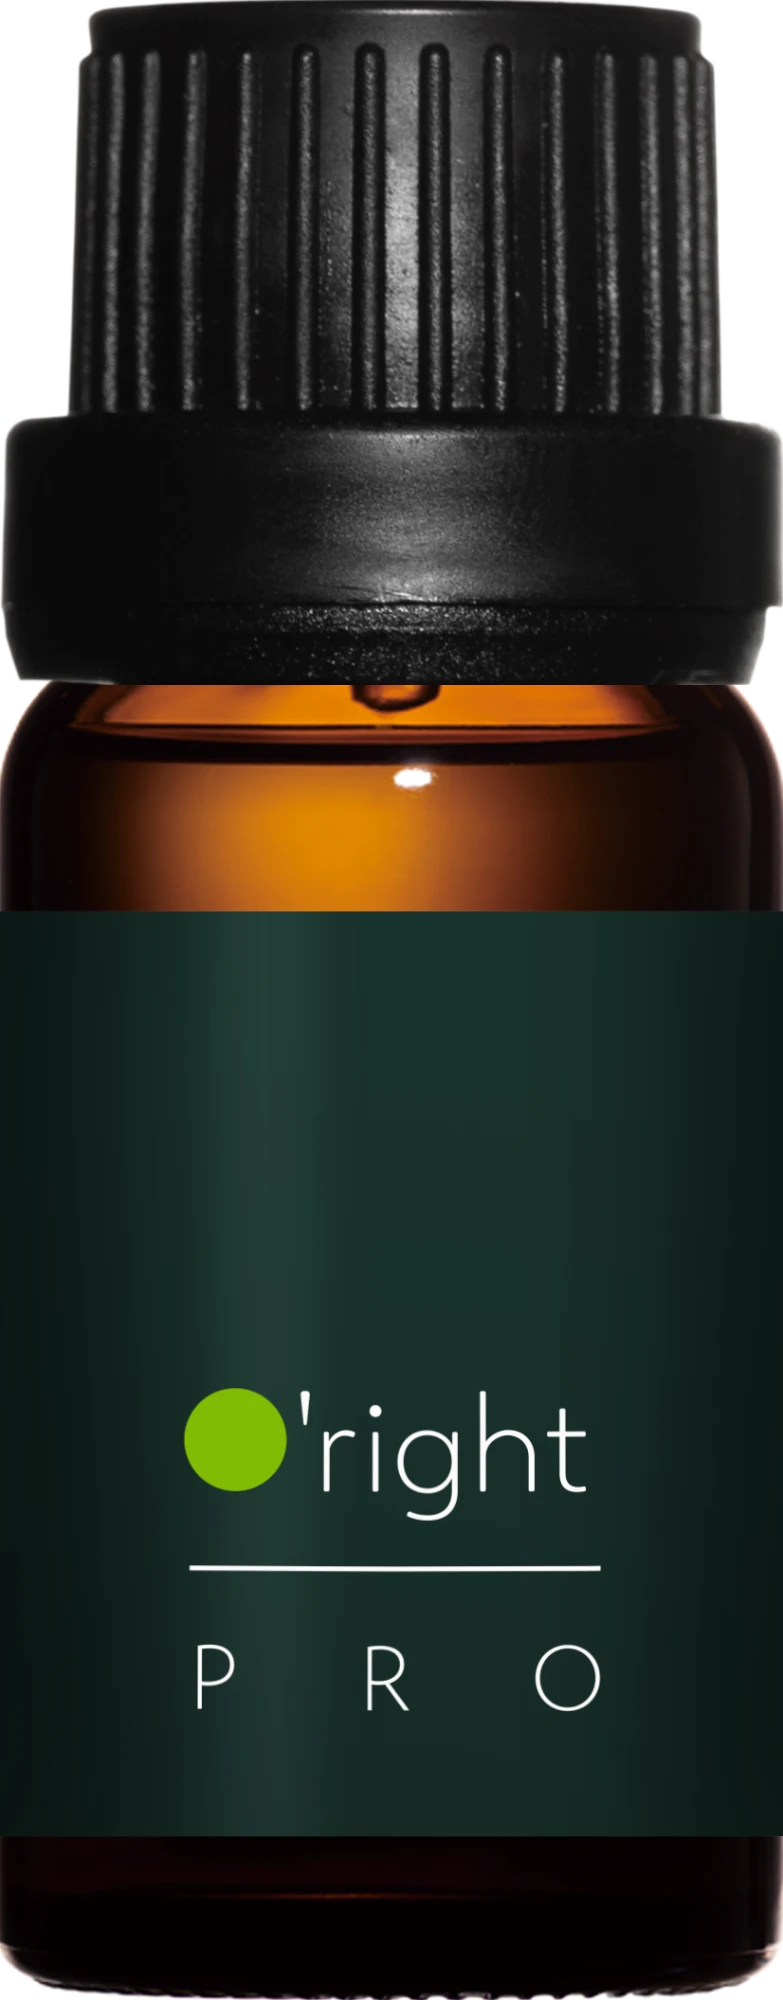
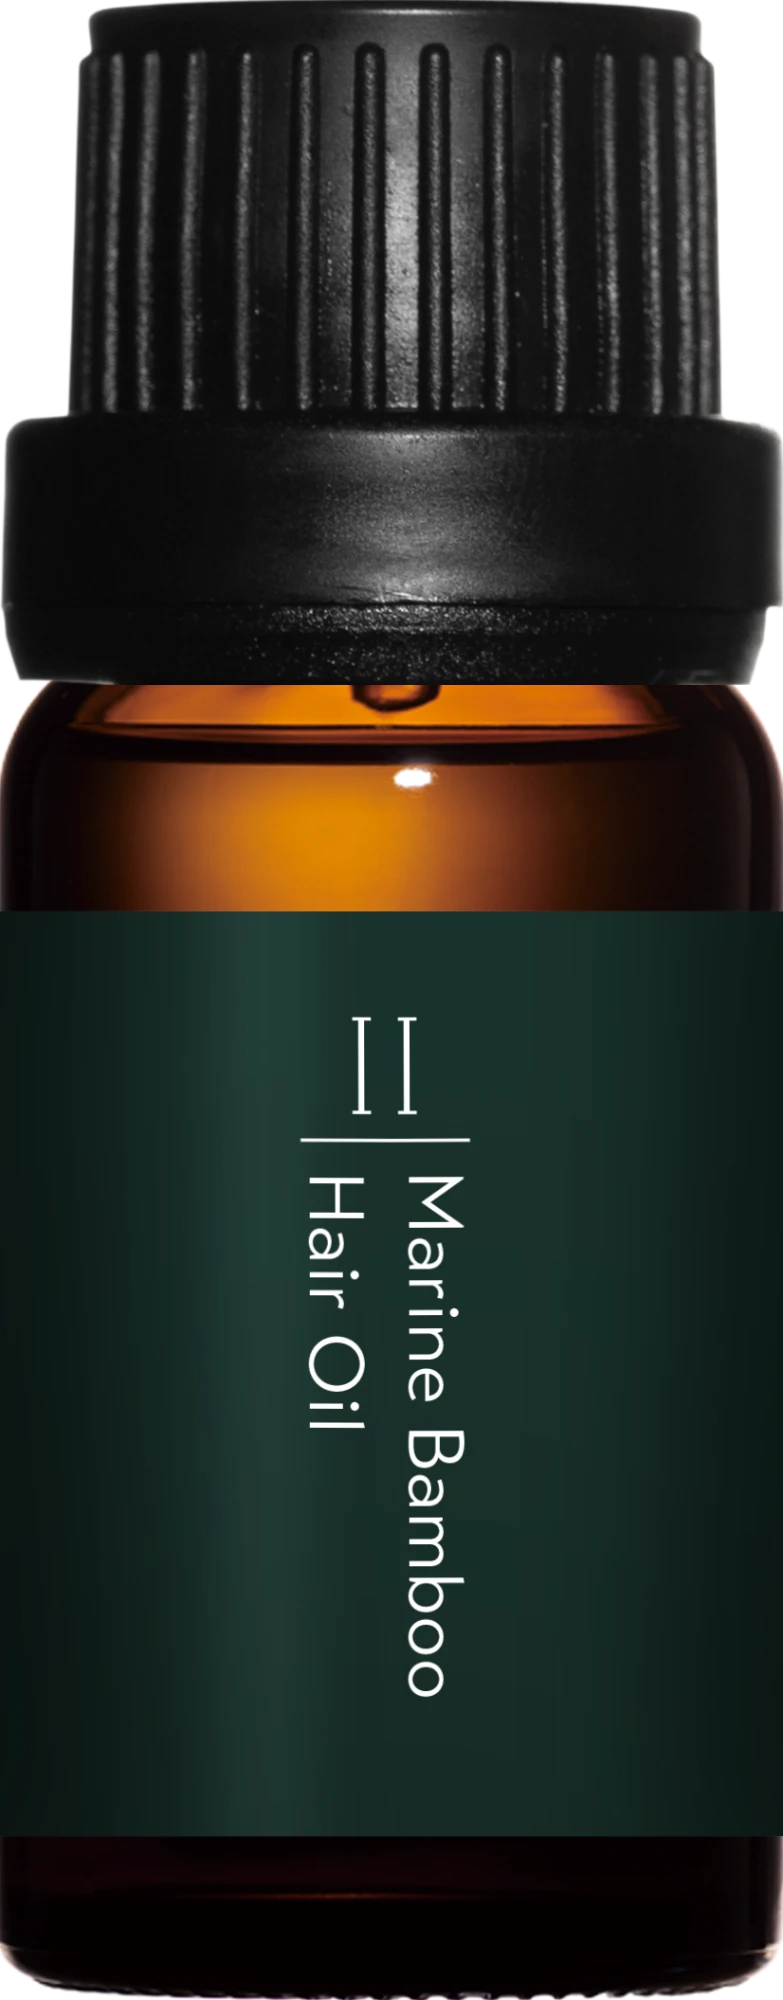
fix: 海洋藤竹護髮油換成印有「Ⅱ Marine Bamboo Hair Oil」的新照片
- 同檔名覆蓋商品圖（透明背景、貼齊瓶身，無需裁切）
- products.js 更新該圖版本號；index.html 四個資料檔版本號更新
- 變更紀錄新增本步條目

diff --git a/Coding/index.html b/Coding/index.html
@@ -9,10 +9,10 @@
 <link rel="preconnect" href="https://fonts.gstatic.com" crossorigin>
 <link rel="stylesheet" href="https://fonts.googleapis.com/css2?family=Jost:wght@200&text=0123456789%24.%2C&display=swap">
 <!-- 匯出用函式庫（html2canvas / jsPDF）改為匯出時才載入，加快初始載入：見 ensureExportLibs() -->
-<script src="products.js?v=1795580611718"></script>
-<script src="product-copy.js?v=1795580611718"></script>
-<script src="i18n.js?v=1795580611718"></script>
-<script src="names-en.js?v=1795580611718"></script>
+<script src="products.js?v=1795590856455"></script>
+<script src="product-copy.js?v=1795590856455"></script>
+<script src="i18n.js?v=1795590856455"></script>
+<script src="names-en.js?v=1795590856455"></script>
 <style>
 /* ── Reset ── */
 *, *::before, *::after { box-sizing: border-box; margin: 0; padding: 0; }

diff --git a/Coding/products.js b/Coding/products.js
@@ -605,7 +605,7 @@ window.PRODUCTS = [
     "series": "Salon USE",
     "copyKey": "海洋藤竹護髮油",
     "orig": "",
-    "img": "../產品圖片/Salon USE系列/海洋藤竹護髮油.webp?v=1795580549674"
+    "img": "../產品圖片/Salon USE系列/海洋藤竹護髮油.webp?v=1795590779463"
   },
   {
     "id": "雪松橙控油洗髮精2000mL",

diff --git a/docs/變更紀錄.md b/docs/變更紀錄.md
@@ -25,6 +25,7 @@ timeline
 
 ## 2026-11
 
+- **11/25｜海洋藤竹護髮油換新照片**：商品圖換成瓶身印有「Ⅱ Marine Bamboo Hair Oil」的版本，和印加果護髮油（Ⅰ）同系列寫法。
 - **11/25｜新增底圖「流程(窄版)」**：頁首較矮的流程底圖，排在「流程」後面，選到一樣自動套用流程版面；步驟區從吊牌下方開始，標題字放大到約 28px（預設空白）。原本的「流程」底圖保留不變。
 - **11/25｜上架兩款護髮油**：新增「海洋藤竹護髮油」「印加果護髮油」（Salon USE），介紹與用途照提供內容寫入，英文、波蘭文翻譯補齊；售價尚未提供先留空。商品從 82 個變成 84 個。
 - **11/25｜上架三款洗髮精 5000mL**：薔薇護色、雪松橙控油、香檸草修護洗髮精新增 5000mL，沿用 2000mL 的文案與翻譯，英文名比照 2L 官方格式；售價尚未提供先留空。商品從 79 個變成 82 個。
